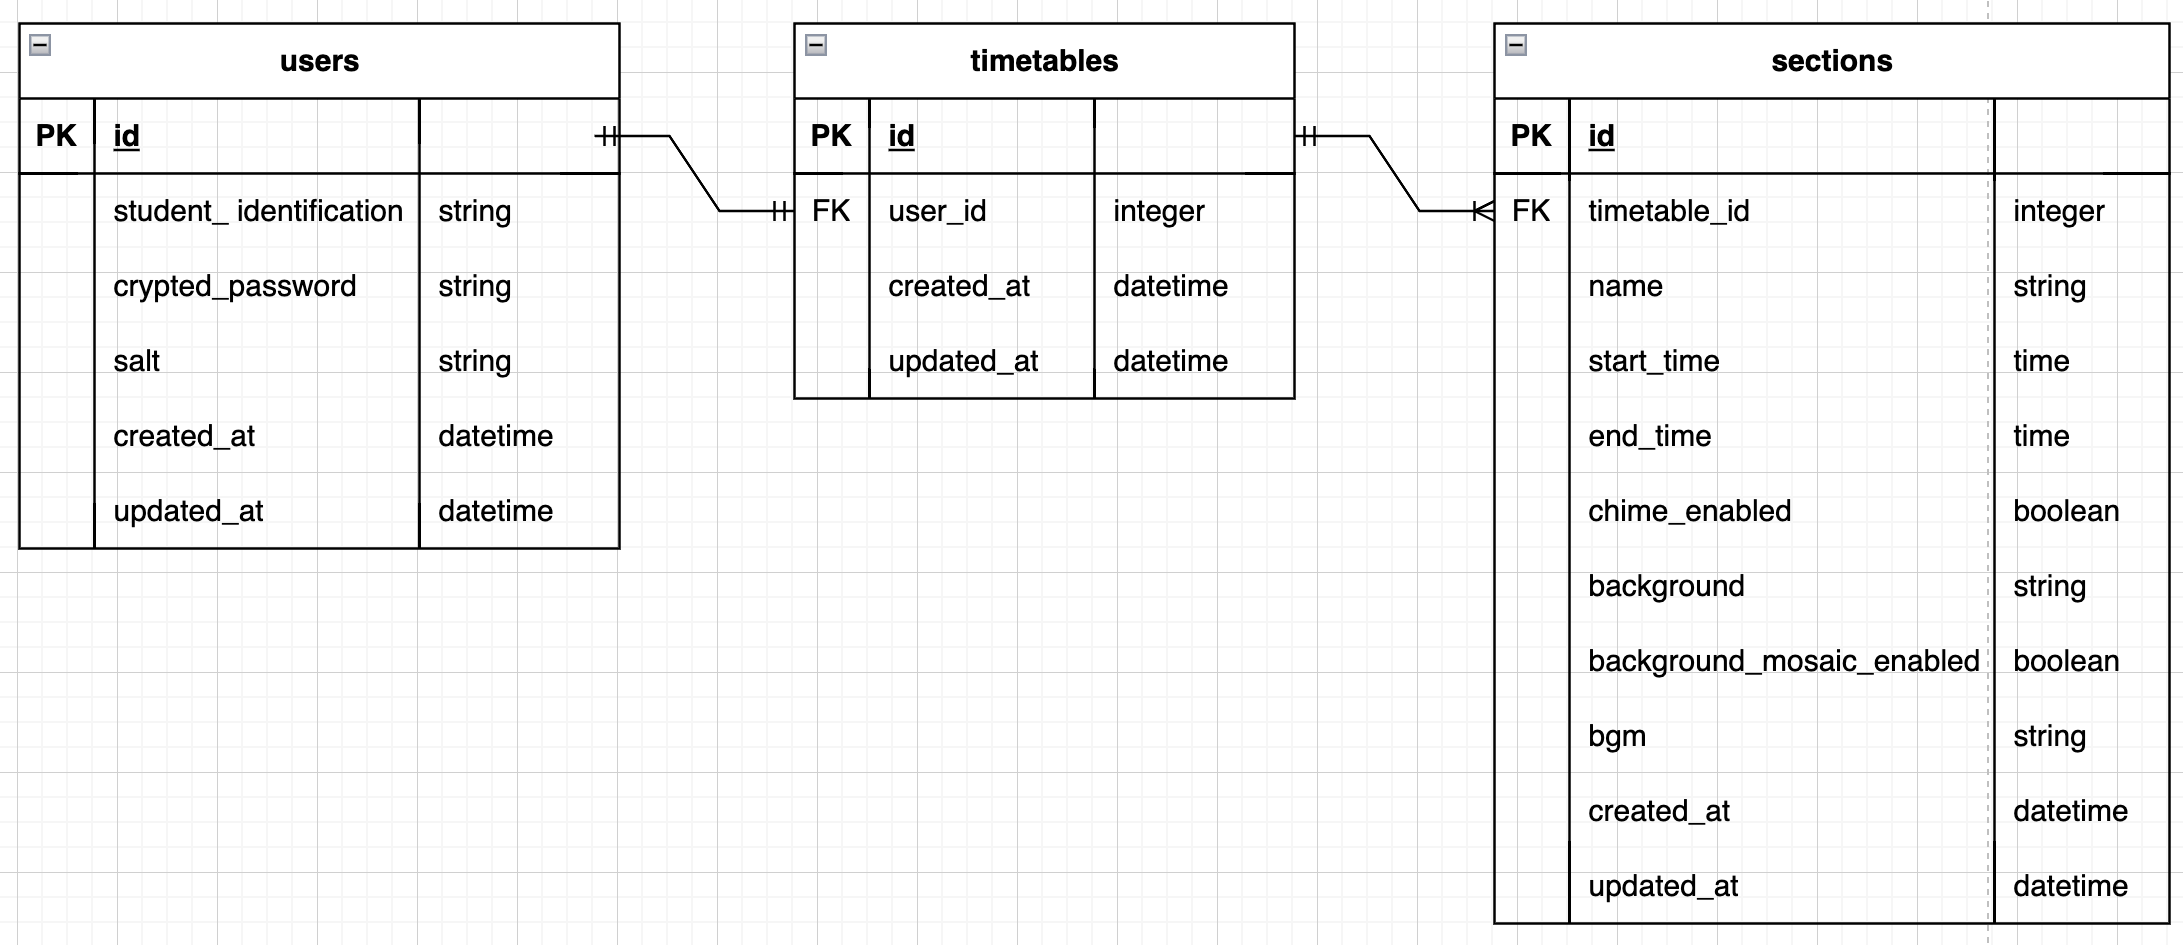
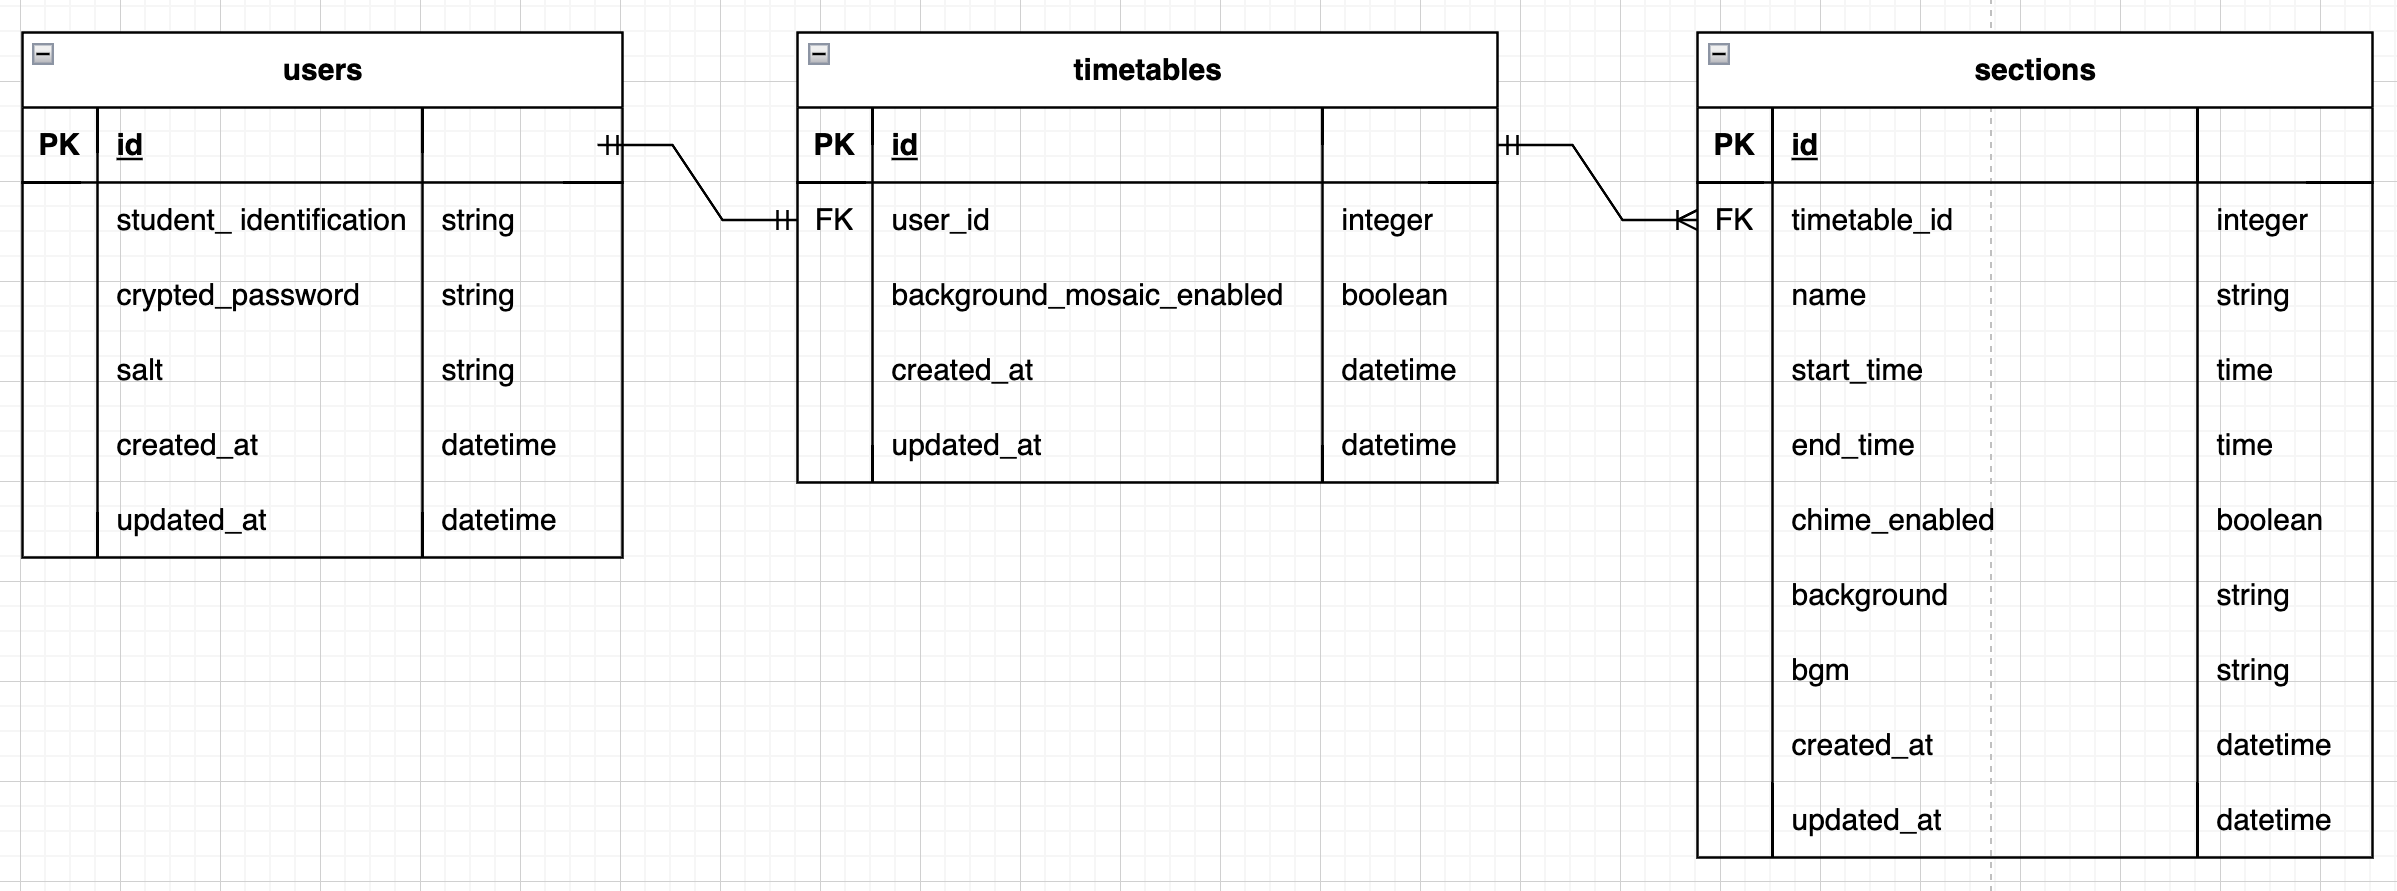
update: background_mosaic_enabledカラムをtimetablesテーブル下に修正

Changed region(s): [[0.0, 0.0, 0.9968, 1.0], [0.2803, 0.303, 0.3426, 0.3333], [0.5607, 0.2424, 0.5918, 0.2727]]

diff --git a/README.md b/README.md
@@ -52,20 +52,20 @@ URL: https://www.figma.com/file/8A9k9dehHPyH2rW1bPY4ph/%22gakkou%22-%E7%94%BB%E9
 * usersテーブル
 ：ユーザーを管理する。
   * student_identificationカラム
-  ：ユーザーの"学籍ID"を収納する。主キーや外部キーの名称(xx_id)と区別するためこの名称に。
+  ：ユーザーの"学籍ID"を格納する。主キーや外部キーの名称(xx_id)と区別するためこの名称に。
 * timetablesテーブル
 ：各ユーザーの時間割を管理する。一ユーザーにつき時間割の設定情報は一つのため、users:timetablesは1:1に。
+  * background_mosaic_enabledカラム
+  ：背景ファイルにモザイクをかけるかどうかのフラグを格納する。
 * sectionsテーブル
 ：時間割の各セクション(1時間目, 休み時間, etc.)を管理する。
   * nameカラム
-  ：セクション名を収納する。
+  ：セクション名を格納する。
   * start_timeカラム end_timeカラム
-  ：それぞれセクションの開始時刻と終了時刻を収納する。
+  ：それぞれセクションの開始時刻と終了時刻を格納する。
   * chime_enabledカラム
-  ：そのセクションにおいてチャイムは鳴らすかどうかのフラグを収納する。
+  ：そのセクションにおいてチャイムを鳴らすかどうかのフラグを格納する。
   * backgroundカラム
-  ：そのセクション時に読み込む画像ファイル(背景用)のパスを収納する。
-  * background_mosaic_enabledカラム
-  ：そのセクションにおいて背景ファイルにモザイクをかけるかどうかのフラグを収納する。
+  ：そのセクション時に読み込む画像ファイル(背景用)のパスを格納する。
   * bgmカラム
-  ：そのセクション時に読み込む音声ファイル(BGM用)のパスを収納する。
+  ：そのセクション時に読み込む音声ファイル(BGM用)のパスを格納する。
